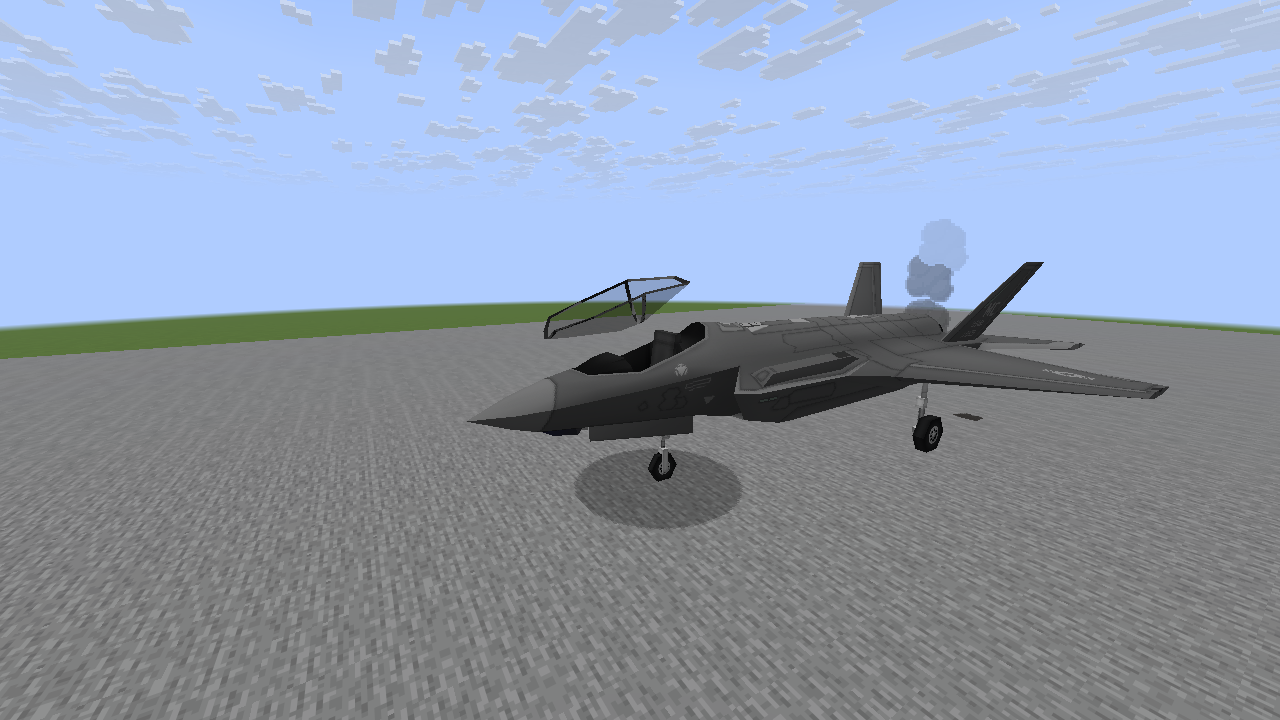
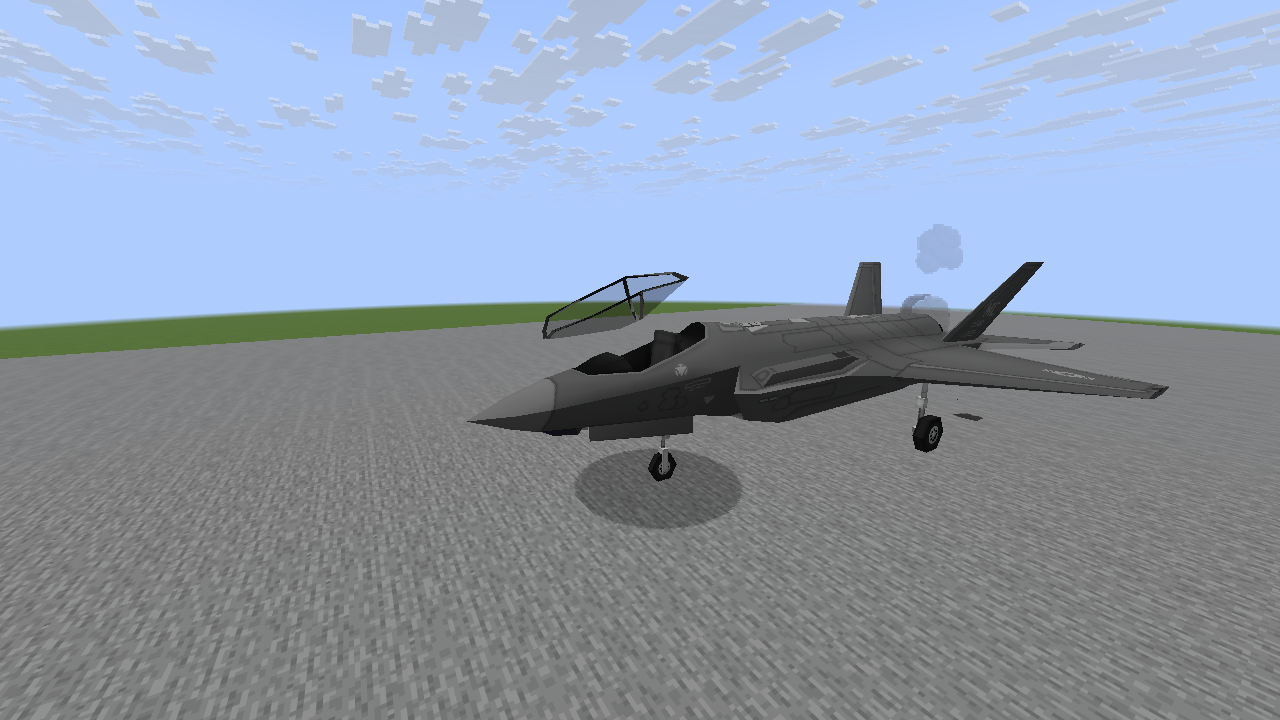
M8: refine wreck placement, panel cost and native examples

diff --git a/src/main/java/io/github/mcheliceport/client/render/LoosePanels.java b/src/main/java/io/github/mcheliceport/client/render/LoosePanels.java
@@ -45,12 +45,15 @@ public final class LoosePanels {
     private static boolean enabled(){return EffectQuality.enhanced()&&ClientConfig.get(ClientConfig.VEHICLE_DAMAGE_DETAILS);}
     public static void clear(){STATES.clear();PIECES.clear();world=null;birthTick=Long.MIN_VALUE;births=0;collisionCursor=0;}
     private static LoosePanelLook.Spec spec(McheliModel.Group group){
+        String name=group.name();
+        if(!(name.regionMatches(true,0,"$hatch",0,6)||name.regionMatches(true,0,"$canopy",0,7)
+                ||name.regionMatches(true,0,"$panel",0,6)||name.regionMatches(true,0,"$wb",0,3)))return null;
         if(!SPECS.containsKey(group)){if(SPECS.size()>=1024)SPECS.clear();SPECS.put(group,LoosePanelLook.spec(group));}
         return SPECS.get(group);
     }
     public static void extract(AircraftEntity entity,AircraftRenderState render){
         var mc=Minecraft.getInstance();if(mc.level!=world){clear();world=mc.level;}
-        if(!enabled()||render.thermal||render.far||entity.isDestroyed()||render.texture==null
+        if(!enabled()||render.far||entity.isDestroyed()||render.texture==null
                 ||mc.gameRenderer.mainCamera().position().distanceToSqr(entity.position())>32*32)return;
         if(STATES.size()>=64&&!STATES.containsKey(entity))return;
         var state=STATES.computeIfAbsent(entity,k->new State());long tick=world.getGameTime();
@@ -83,8 +86,10 @@ public final class LoosePanels {
             for(var group:draw.groups()){
                 int occurrence=occurrences.getOrDefault(group,0);occurrences.put(group,occurrence+1);
                 if(group==state.detached&&occurrence==state.occurrence)continue;
-                var s=spec(group);float angle=LoosePanelLook.rattle(fraction,tick,entity.getId()+group.name().hashCode());
-                if(s==null||angle==0){unchanged.add(group);continue;}
+                var s=spec(group);
+                if(s==null){unchanged.add(group);continue;}
+                float angle=LoosePanelLook.rattle(fraction,tick,entity.getId()+group.name().hashCode());
+                if(angle==0){unchanged.add(group);continue;}
                 var c=s.center();var pose=new Matrix4f(draw.pose()).translate(c).rotateZ(angle).rotateX(angle*.45F).translate(-c.x,-c.y,-c.z);
                 draws.add(new AircraftPartPoses.Draw(pose,List.of(group)));
             }
@@ -120,9 +125,12 @@ public final class LoosePanels {
             Vec3 at=p.previous.lerp(p.position,partial).subtract(camera);float age=p.age+partial;
             var transform=new Matrix4f().translation((float)at.x,(float)at.y,(float)at.z)
                     .rotateXYZ((p.settled?p.restAge:age)*.09F+p.phase,(p.settled?p.restAge:age)*.05F,(p.settled?p.restAge:age)*.025F).mul(p.local);
-            int color=((int)(255*Math.clamp((60-age)/15,0,1))<<24)|0xDADADA;
-            event.getSubmitNodeCollector().submitCustomGeometry(event.getPoseStack(),RenderTypes.entityTranslucent(p.texture,false),(pose,buffer)->{
-                var local=pose.copy();local.mulPose(transform);ModelVertices.emit(buffer,local,List.of(p.group),color,p.light,false);
+            boolean thermal=ThermalVision.drawsWhite(p.owner);
+            Identifier texture=thermal?ThermalVision.WHITE:p.texture;
+            int pieceLight=thermal?LightCoordsUtil.FULL_BRIGHT:p.light;
+            int color=((int)(255*Math.clamp((60-age)/15,0,1))<<24)|(thermal?0xFFFFFF:0xDADADA);
+            event.getSubmitNodeCollector().submitCustomGeometry(event.getPoseStack(),RenderTypes.entityTranslucent(texture,false),(pose,buffer)->{
+                var local=pose.copy();local.mulPose(transform);ModelVertices.emit(buffer,local,List.of(p.group),color,pieceLight,false);
             });
         }
     }

diff --git a/scripts/visual-probe/io/github/mcheliceport/client/render/DestructionPreviewProbe.java b/scripts/visual-probe/io/github/mcheliceport/client/render/DestructionPreviewProbe.java
@@ -92,7 +92,7 @@ public final class DestructionPreviewProbe {
             var parts=vehicle.getParts();for(int i=0;i<parts.length;i++)parts[i].setId(980000+phase*100+i);
             mc.level.addEntity(vehicle);System.out.println("M8_DESTRUCTION step="+STEP+" vehicle="+NAMES[phase]);
         }
-        if(age==145||age==180||(STEP==4||STEP==7)&&age==95||(STEP==7||STEP==8)&&age==205||STEP==8&&age==95)capture=NAMES[phase]+"-age"+age;
+        if(age==145||age==180||(STEP==4||STEP==7)&&age==95||(STEP==7||STEP==8)&&age==205||(STEP==8||STEP==5)&&age==95)capture=NAMES[phase]+"-age"+age;
         if(STEP==8){
             if(glassPoint==null&&age>50)findGlass();
             if(age==70){
@@ -189,7 +189,7 @@ public final class DestructionPreviewProbe {
         return bestPoint;
     }
     @SubscribeEvent public static void angles(ViewportEvent.ComputeCameraAngles e){
-        if(STEP==0||vehicle==null)return;e.setYaw(STEP==8?102:STEP==7?122:STEP==4?147:STEP==2?64:(STEP==3||STEP==6)?90:94);e.setPitch(STEP==8?16:STEP==7?12:STEP==4?10:STEP==2?12:(STEP==3||STEP==6)?20:17);e.setRoll(0);
+        if(STEP==0||vehicle==null)return;e.setYaw(STEP==5?49:STEP==8?102:STEP==7?(phase==2?58:122):STEP==4?147:STEP==2?64:(STEP==3||STEP==6)?90:94);e.setPitch(STEP==5?18:STEP==8?16:STEP==7?12:STEP==4?10:STEP==2?12:(STEP==3||STEP==6)?20:17);e.setRoll(0);
     }
     @SubscribeEvent public static void position(ViewportEvent.ComputeFov e){
         if(STEP==0||vehicle==null)return;
@@ -201,15 +201,15 @@ public final class DestructionPreviewProbe {
             if(models!=null){
                 LoosePanelLook.Spec best=null;
                 for(var group:models.body().groups){var s=LoosePanelLook.spec(group);if(s!=null&&(best==null||s.rank()<best.rank()))best=s;}
-                if(best!=null){var c=best.center();e.getCamera().setPosition(vehicle.position().add(c.x,c.y,c.z).add(8,2,5));return;}
+                if(best!=null){var c=best.center();e.getCamera().setPosition(vehicle.position().add(c.x,c.y,c.z).add(8,2,phase==2?-5:5));return;}
             }
         }
         if(STEP==2){
             var origin=VehicleAtmosphere.origins(vehicle).getFirst();
             e.getCamera().setPosition(new Vec3(origin.x,vehicle.getY(),origin.z).add(5.2,1.2,-2.5));
         }else if(STEP==5){
-            var origin=VehicleAtmosphere.origins(vehicle).getFirst();
-            e.getCamera().setPosition(new Vec3(origin.x,vehicle.getY()+4,origin.z).add(9,0,.5));
+            var origin=VehicleAtmosphere.wreckOrigins(vehicle).getFirst();
+            e.getCamera().setPosition(origin.add(7,3,-6));
         }else e.getCamera().setPosition(vehicle.position().add(STEP==4?(phase==0?new Vec3(5,2,8):new Vec3(12,5,18)):(STEP==3||STEP==6)?new Vec3(6,2.3,0):new Vec3(15,5,1)));
     }
     @SubscribeEvent public static void frame(RenderFrameEvent.Post event){

diff --git a/src/main/java/io/github/mcheliceport/client/render/VehicleImpactMarks.java b/src/main/java/io/github/mcheliceport/client/render/VehicleImpactMarks.java
@@ -109,14 +109,14 @@ public final class VehicleImpactMarks {
         int sceneCap=quality==ClientConfig.EffectBudget.LOW?32:quality==ClientConfig.EffectBudget.HIGH?128:96;
         if(pressure>0)sceneCap/=1+pressure;
         float fade=Math.clamp((range-(float)Math.sqrt(distance))/(range*.3F),0,1);fade=fade*fade*(3-2*fade);
-        int count=0;
+        int count=0;boolean smokeChosen=false;
         for(var iterator=state.marks.descendingIterator();iterator.hasNext()&&count<cap&&visible<sceneCap;){
             Mark mark=iterator.next();Matrix4f pose=partPose(render.draws,mark.group,mark.occurrence,mark.instances);
             // Hidden/replaced instances must not transfer a mark to a different moving part.
             if(pose==null){iterator.remove();continue;}
-            if(mark.blast&&mark.opacity>.25F&&world.getGameTime()-mark.born<400){
+            if(!smokeChosen&&mark.blast&&mark.opacity>.25F&&world.getGameTime()-mark.born<400){
                 var at=pose.transformPosition(new Vector3f(mark.contact));
-                state.smokeOrigin=entity.position().add(at.x,at.y,at.z);state.smokeTick=world.getGameTime();
+                state.smokeOrigin=entity.position().add(at.x,at.y,at.z);state.smokeTick=world.getGameTime();smokeChosen=true;
             }
             render.impactDraws.add(new Draw(new Matrix4f(pose),mark.mesh,mark.tile,mark.opacity*fade));count++;visible++;
         }
@@ -165,7 +165,7 @@ public final class VehicleImpactMarks {
         }
         Mark previous=null;
         if(glass&&!pending.blast)for(var m:state.marks){
-            if(m.tile>=6&&m.group==chosen&&m.occurrence==chosenOccurrence&&m.target>.25F
+            if(m.tile>=6&&m.group==chosen&&m.occurrence==chosenOccurrence&&m.instances==occurrences.get(chosen)&&m.target>.25F
                     &&m.contact.distanceSquared(localContact)<Math.max(.2F,m.radius)*Math.max(.2F,m.radius))previous=m;
         }
         float radius=glass&&!pending.blast?io.github.mcheliceport.client.model.VehicleGlassLook.radius(previous==null?0:previous.radius,p.radius()):p.radius();

diff --git a/src/main/java/io/github/mcheliceport/client/render/VehicleBlastScars.java b/src/main/java/io/github/mcheliceport/client/render/VehicleBlastScars.java
@@ -28,14 +28,16 @@ public final class VehicleBlastScars {
                     || Minecraft.getInstance().gameRenderer.mainCamera().position().distanceToSqr(ac.position())>48*48) continue;
             var models=io.github.mcheliceport.client.model.AircraftModels.peek(ac.getAcInfo());
             double height=models==null?1.5:Math.clamp(models.body().maxY*.4+.35,1,3);
-            Vec3 target=ac.position().add(0,height,0), direction=target.subtract(origin).normalize();
+            var body=VehicleImpactLook.body(ac.getYaw(),ac.getPitch(),ac.getRoll());
+            var center=body.transformPosition(new Vector3f(0,(float)height-.35F,0));
+            Vec3 target=ac.position().add(center.x,center.y,center.z), direction=target.subtract(origin).normalize();
             if (direction.lengthSqr()<.5 || !level.hasChunkAt(BlockPos.containing(origin))
                     || !level.hasChunkAt(BlockPos.containing(target))) continue;
             rays++;
             if (level.clip(new ClipContext(origin,target,ClipContext.Block.COLLIDER,ClipContext.Fluid.ANY,
                     CollisionContext.empty())).getType()!=HitResult.Type.MISS) continue;
-            var inverse=VehicleImpactLook.body(ac.getYaw(),ac.getPitch(),ac.getRoll()).invert();
-            var point=inverse.transformPosition(new Vector3f(0,(float)height,0));
+            var inverse=new org.joml.Matrix4f(body).invert();
+            var point=inverse.transformPosition(new Vector3f(center));
             var incoming=inverse.transformDirection(new Vector3f((float)direction.x,(float)direction.y,(float)direction.z)).normalize();
             var tangent=new Vector3f(incoming).cross(0,1,0);
             if(tangent.lengthSquared()<.01F)tangent.set(1,0,0);else tangent.normalize();

diff --git a/src/main/java/io/github/mcheliceport/client/particle/VehicleAtmosphere.java b/src/main/java/io/github/mcheliceport/client/particle/VehicleAtmosphere.java
@@ -149,8 +149,20 @@ public final class VehicleAtmosphere {
         return result;
     }
 
+    /** Rear-deck fallback for tanks; aircraft retain their authored engine/nozzle anchors. */
+    public static List<Vec3> wreckOrigins(AircraftEntity aircraft) {
+        if(aircraft instanceof io.github.mcheliceport.entity.tank.TankEntity&&aircraft.getAcInfo().engineOutlets.isEmpty()){
+            var model=io.github.mcheliceport.client.model.AircraftModels.peek(aircraft.getAcInfo());
+            double top=model==null?1.8:Math.clamp(model.body().maxY*.4,1.2,2.1);
+            double rear=model==null?-1.7:Math.clamp(model.body().minZ*.82,-5,-.7);
+            return List.of(aircraft.position().add(McheliMath.rotVec3(.85,top+.35,rear,
+                    -aircraft.getYaw(),-aircraft.getPitch(),-aircraft.getRoll())));
+        }
+        return origins(aircraft);
+    }
+
     private static void damage(ClientLevel level, AircraftEntity aircraft, List<Vec3> origins, long now, WreckCoolingLook cooling) {
-        if (aircraft.isDestroyed()) { WreckEffects.emit(level,origins,cooling,aircraft,now); return; }
+        if (aircraft.isDestroyed()) { WreckEffects.emit(level,wreckOrigins(aircraft),cooling,aircraft,now); return; }
         float severity = VehicleAtmosphereLook.damage(aircraft.getHP(), aircraft.getMaxHP());
         if (severity == 0) return;
         if (aircraft.isSearchLightOn() && severity > .4F && EffectPerformance.optionalGlows()

diff --git a/src/main/java/io/github/mcheliceport/client/particle/WreckEffects.java b/src/main/java/io/github/mcheliceport/client/particle/WreckEffects.java
@@ -14,12 +14,6 @@ final class WreckEffects {
         if (density<=0) return;
         var engine=Minecraft.getInstance().particleEngine;
         Vec3 origin=origins.get(Math.floorMod((int)(tick/9+id),origins.size()));
-        if(aircraft instanceof io.github.mcheliceport.entity.tank.TankEntity&&aircraft.getAcInfo().engineOutlets.isEmpty()){
-            var model=io.github.mcheliceport.client.model.AircraftModels.peek(aircraft.getAcInfo());
-            double top=model==null?1.8:Math.clamp(model.body().maxY*.5,1.2,2.4);
-            origin=aircraft.position().add(io.github.mcheliceport.util.McheliMath.rotVec3(.25,top,-1.7,
-                    -aircraft.getYaw(),-aircraft.getPitch(),-aircraft.getRoll()));
-        }
         Vec3 pos=origin.add(Math.sin(tick*.7+id)*.22,.2,Math.cos(tick*.43+id)*.22);
         int pressure=1+EffectPerformance.pressure();
         if (fire>0 && Math.floorMod(tick+id,5*pressure)==0) {

diff --git a/src/main/java/io/github/mcheliceport/config/ClientConfig.java b/src/main/java/io/github/mcheliceport/config/ClientConfig.java
@@ -171,7 +171,7 @@ public final class ClientConfig {
                 .define("rotorWashDebris", true);
         ENGINE_STARTUP_EFFECTS = builder.comment("Enhanced engine startup puffs, spooling turbine whine and gradual heat buildup.")
                 .define("engineStartupEffects", true);
-        VEHICLE_DAMAGE_DETAILS = builder.comment("Cosmetic impact chips, cannon scars, named-window cracks, coolant leaks, sparks and damage smoke.")
+        VEHICLE_DAMAGE_DETAILS = builder.comment("Cosmetic impact/blast scars, progressive glass cracks, fluid leaks, damaged lamps, loose panels and cooling wrecks.")
                 .define("vehicleDamageDetails", true);
         WEAPON_GROUND_EFFECTS = builder.comment("Brief muzzle illumination and ground dust beneath large guns.")
                 .define("weaponGroundEffects", true);

diff --git a/docs/M8_DESTRUCTION_EFFECTS.md b/docs/M8_DESTRUCTION_EFFECTS.md
@@ -15,6 +15,12 @@ RTX 3060 8GB / Ryzen 7 7800X3D at 1080p. Hardware FPS needs target-PC verificati
 | 7 | Rattling and detachable small authored panels | Complete |
 | 8 | Progressive cracks on identifiable glazing | Complete |
 
+Enabled by default with `effects.effectQuality = ENHANCED` and
+`effects.vehicleDamageDetails = true`. Open ESC → MC Heli Effects → Full settings to
+change these options; Detail and Adaptive controls still bound presentation cost.
+Authored lamps and small removable model groups are required for light/panel effects.
+Mixed canopy glazing uses source alpha; unknown or oversized textures keep paint marks.
+
 All additions are cosmetic and respect the existing damage-details switch, distance and
 quality controls. Avoid unbounded particles, repeated full-model scans, world lighting
 updates and new gameplay entities. Temporary previews use controlled vehicle states;
@@ -106,3 +112,20 @@ on the render thread. Native checks cover first hit, four-hit progression and re
 Native previews on three stock vehicles and 316 local unit tests pass.
 
 ![Progressive glazing damage](screens/m8-destruction-08-progressive-glass.png)
+
+## Reproducing the previews
+
+Use JDK 25 and a graphical client with the development-only visual-probe source set:
+
+```sh
+./gradlew -I scripts/visual-probe.init.gradle --no-configuration-cache \
+  -Dmcheli.destructionPreview=8 -Dmcheli.probeBackend=VULKAN test runClient
+```
+
+Choose stages 1–8. The disposable `M6Smoke` preview world must exist; never point the
+fixture at a valued save. Screenshots are native 1280×720 captures in the preview run's
+`screenshots` directory. Stage 4 includes healthy/damaged lamps, stage 7 checks repaired
+panels, and stage 8 checks opaque frames, repeated fractures and repaired glass.
+Stages 2 and 6 also assert terrain fitting/removal and blast occlusion respectively.
+Local previews used JDK 25/Mesa with optional integration dependency exclusions;
+GitHub CI validates the normal build and dedicated GameTests with and without NTM Next.

diff --git a/docs/M8_PLAN.md b/docs/M8_PLAN.md
@@ -386,3 +386,12 @@ original craters and 60 FPS target. NTM work remains owned by Claude and is unto
 cannon soot, cracks on named glazing, part-local attachments and gradual repair fading.
 Use bounded optional cosmetic notifications, clipped overlays and the existing damage-details
 setting. Keep gameplay damage, craters and NTM unchanged. Mesh deformation is separate work.
+
+## Vehicle destruction and aftermath follow-ups
+
+All eight requested stages are implemented: damaged-engine trails; oil/coolant drips and
+ground stains; directional metal fragments; damaged lamp faults; finite cooling wrecks;
+blast-fitted soot and panel smoke; small authored loose panels; progressive glazing cracks.
+See [implementation, limits and native examples](M8_DESTRUCTION_EFFECTS.md).
+These stay behind the existing damage-details option and leave damage, craters and NTM
+integration unchanged. Target-PC verification of 60 FPS remains outstanding.
